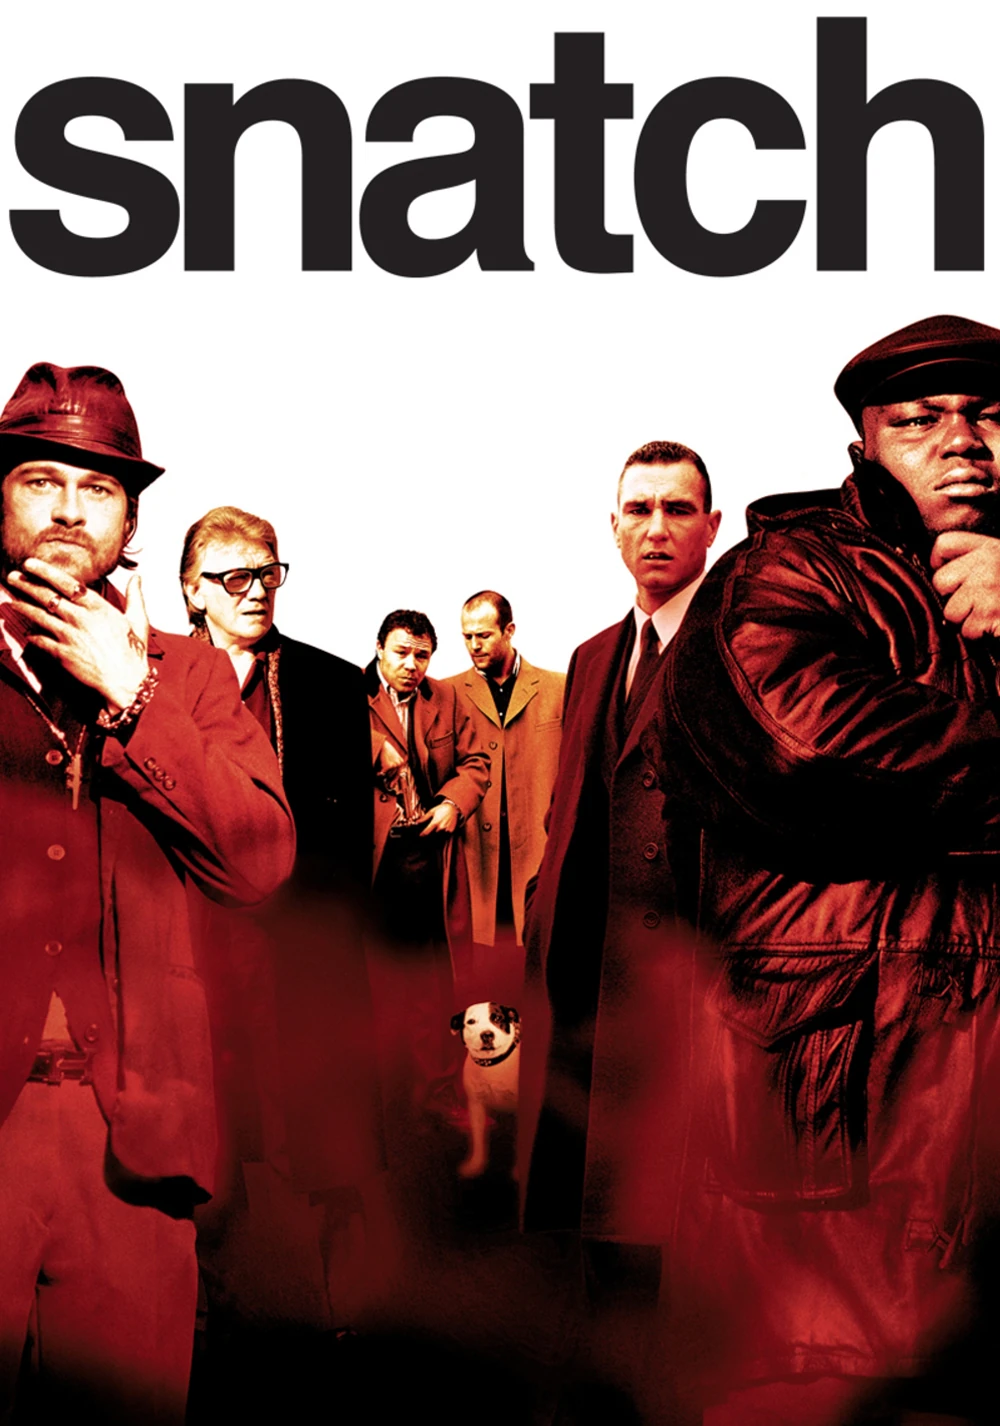
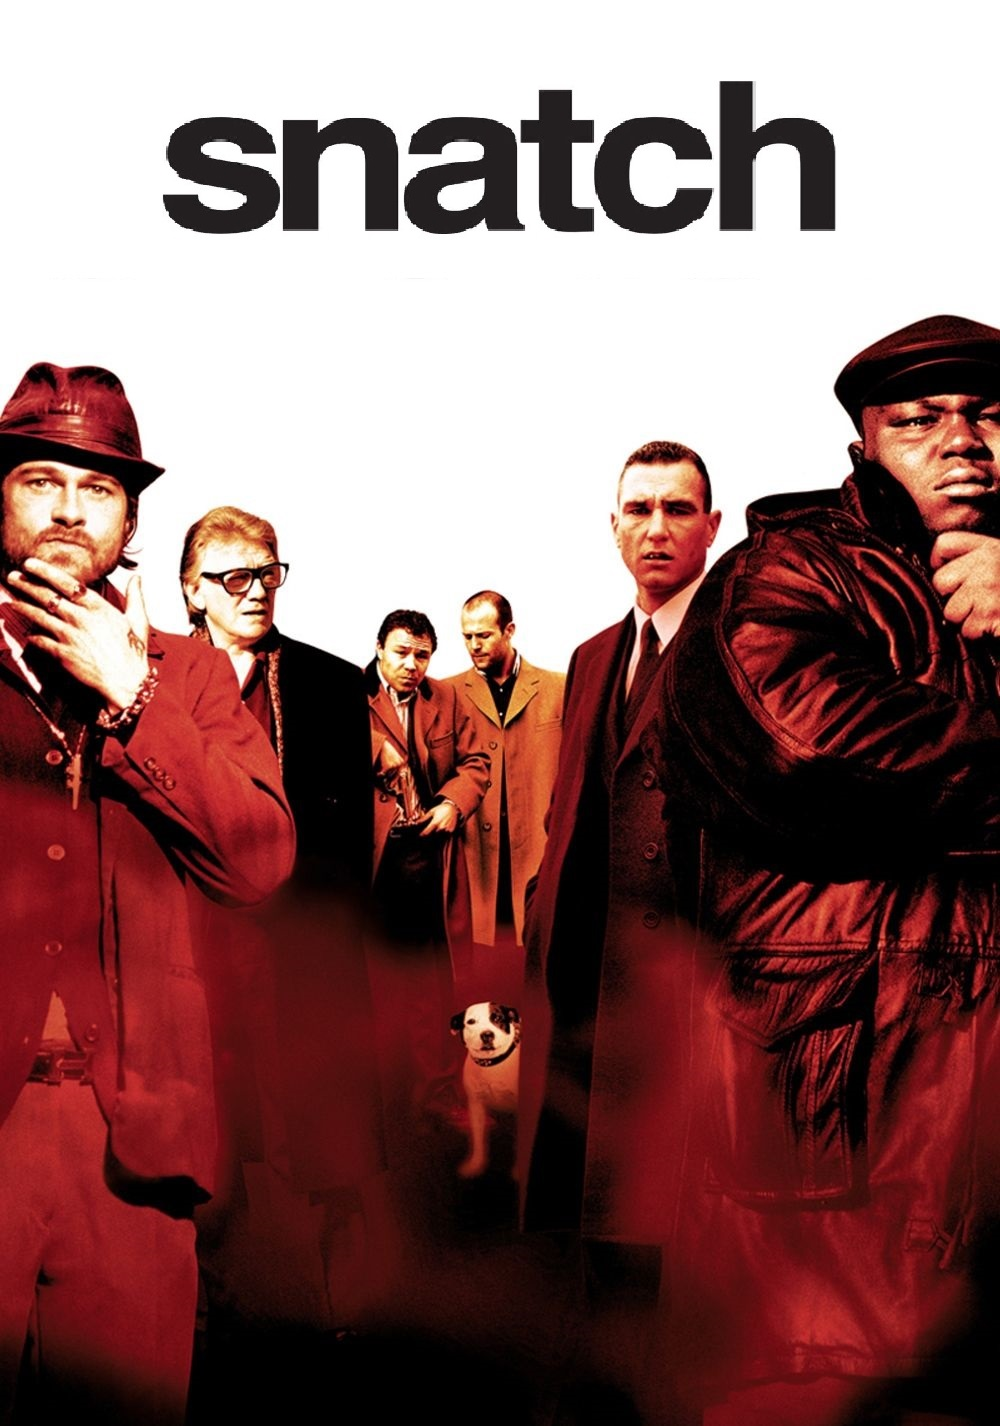
Finished Styling and Adding ListHeaderComponent, Still Need Comments

Changed region(s): [[0.0, 0.0, 0.992, 0.216]]

diff --git a/Week 4/smith_04/components/MovieItem.js b/Week 4/smith_04/components/MovieItem.js
@@ -19,36 +19,50 @@ function MovieItem(props) {
 export default MovieItem;
 
 const styles = StyleSheet.create({
-    itemContainer: {
-        marginBottom: 20,
-    },
-    titleContainer: {
-        backgroundColor: "white",
-        borderWidth: 3,
-        borderRadius: 5,
-        paddingHorizontal: 10
-    },
-    itemTitle: {
-        fontSize: 30,
-        textAlign: "center"
-    },
-    imageContainer: {
-        alignItems: "center",
-        borderWidth: 3,
-        borderRadius: 5
-    },
-    itemImage: {
-        width: "100%",
-        height: 500,
-        resizeMode: "cover"
-    },
-    ratingContainer: {
-        backgroundColor: "white",
-        borderWidth: 3,
-        borderRadius: 5
-    },
-    itemRating: {
-        fontSize: 30,
-        textAlign: "center"
-    }
+  itemContainer: {
+    marginBottom: 20,
+  },
+  titleContainer: {
+    backgroundColor: "#2B4254",
+    borderWidth: 3,
+    borderRadius: 5,
+    borderTopLeftRadius: 20,
+    borderTopRightRadius: 20,
+    paddingHorizontal: 10,
+  },
+  itemTitle: {
+    fontSize: 30,
+    textAlign: "center",
+    color: "#d80000",
+    textShadowColor: "black",
+    textShadowOffset: { width: 3, height: 3 },
+    textShadowRadius: 1,
+    transform: [{ perspective: 350 }, { rotateX: '15deg' }],
+  },
+  imageContainer: {
+    alignItems: "center",
+    borderWidth: 3,
+    borderRadius: 5,
+  },
+  itemImage: {
+    width: "100%",
+    height: 500,
+    resizeMode: "cover",
+  },
+  ratingContainer: {
+    backgroundColor: "#2B4254",
+    borderWidth: 3,
+    borderRadius: 5,
+    borderBottomLeftRadius: 20,
+    borderBottomRightRadius: 20,
+  },
+  itemRating: {
+    fontSize: 30,
+    textAlign: "center",
+    color: "#d80000",
+    textShadowColor: "black",
+    textShadowOffset: { width: 3, height: 3 },
+    textShadowRadius: 1,
+    transform: [{ perspective: 350 }, { rotateX: '15deg' }],
+  },
 });

diff --git a/Week 4/smith_04/App.js b/Week 4/smith_04/App.js
@@ -3,6 +3,7 @@ import { useState } from "react";
 import { SafeAreaView, StyleSheet, Text, View, FlatList } from "react-native";
 
 import MovieItem from "./components/MovieItem";
+import ListHeaderComponent from './components/ListHeaderComponent'; // Imports the List header for use
 
 export default function App() {
   const [movieItems, setMovieItems] = useState([
@@ -72,6 +73,7 @@ export default function App() {
             showsVerticalScrollIndicator={false}
             data={movieItems}
             keyExtractor={(item) => item.name}
+            ListHeaderComponent={ListHeaderComponent}  // Calls the List Header Component
             renderItem={({ item }) => (
               <MovieItem
                 name={item.name}
@@ -89,22 +91,29 @@ export default function App() {
 const styles = StyleSheet.create({
   rootContainer: {
     flex: 1,
-    backgroundColor: "#5bbe71",
+    backgroundColor: "#d80000",
     alignItems: "center",
     justifyContent: "center",
-    paddingTop: 40,
+    paddingTop: 50,
   },
   titleContainer: {
     flex: 1,
     justifyContent: "center",
     marginBottom: 20,
-    paddingHorizontal: 5,
+    paddingHorizontal: 7,
     borderWidth: 5,
     borderRadius: 10,
+    backgroundColor: "#2B4254",
   },
   title: {
     fontSize: 35,
     fontWeight: "bold",
+    color: "#d80000",
+    textShadowColor: "black",
+    textShadowOffset: { width: 3, height: 3 },
+    textShadowRadius: 1,
+    transform: [{ perspective: 350 }, { rotateX: '15deg' }],
+    paddingHorizontal: 7
   },
   listContainer: {
     flex: 8,

diff --git a/Week 4/smith_04/components/ListHeaderComponent.js b/Week 4/smith_04/components/ListHeaderComponent.js
@@ -1,0 +1,27 @@
+// ListHeaderComponent.js
+import React from 'react';
+import { View, Image, StyleSheet } from 'react-native';
+
+function ListHeaderComponent() {
+  return (
+    <View style={styles.headerContainer}>
+      <Image
+        source={require("../assets/images/movie_logo.png")} // image path to your 
+        style={styles.headerImage}
+        resizeMode="contain"
+      />
+    </View>
+  );
+}
+
+export default ListHeaderComponent;
+
+const styles = StyleSheet.create({
+  headerContainer: {
+    marginBottom: 20,
+  },
+  headerImage: {
+    width: "100%", 
+    height: 200, 
+  },
+});
